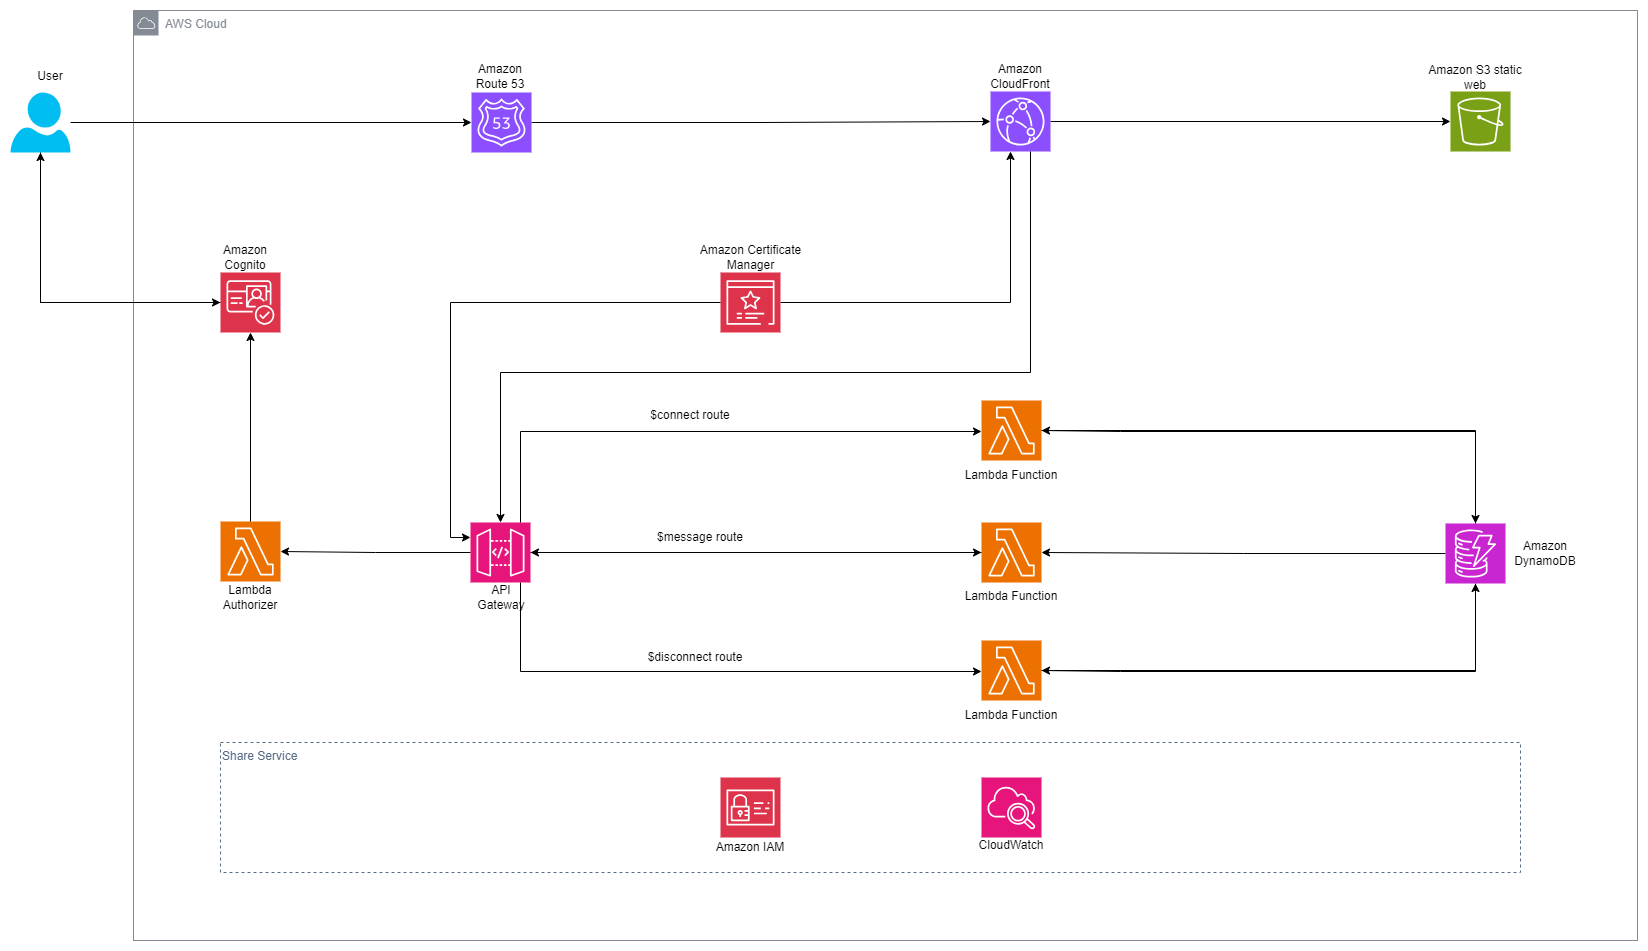
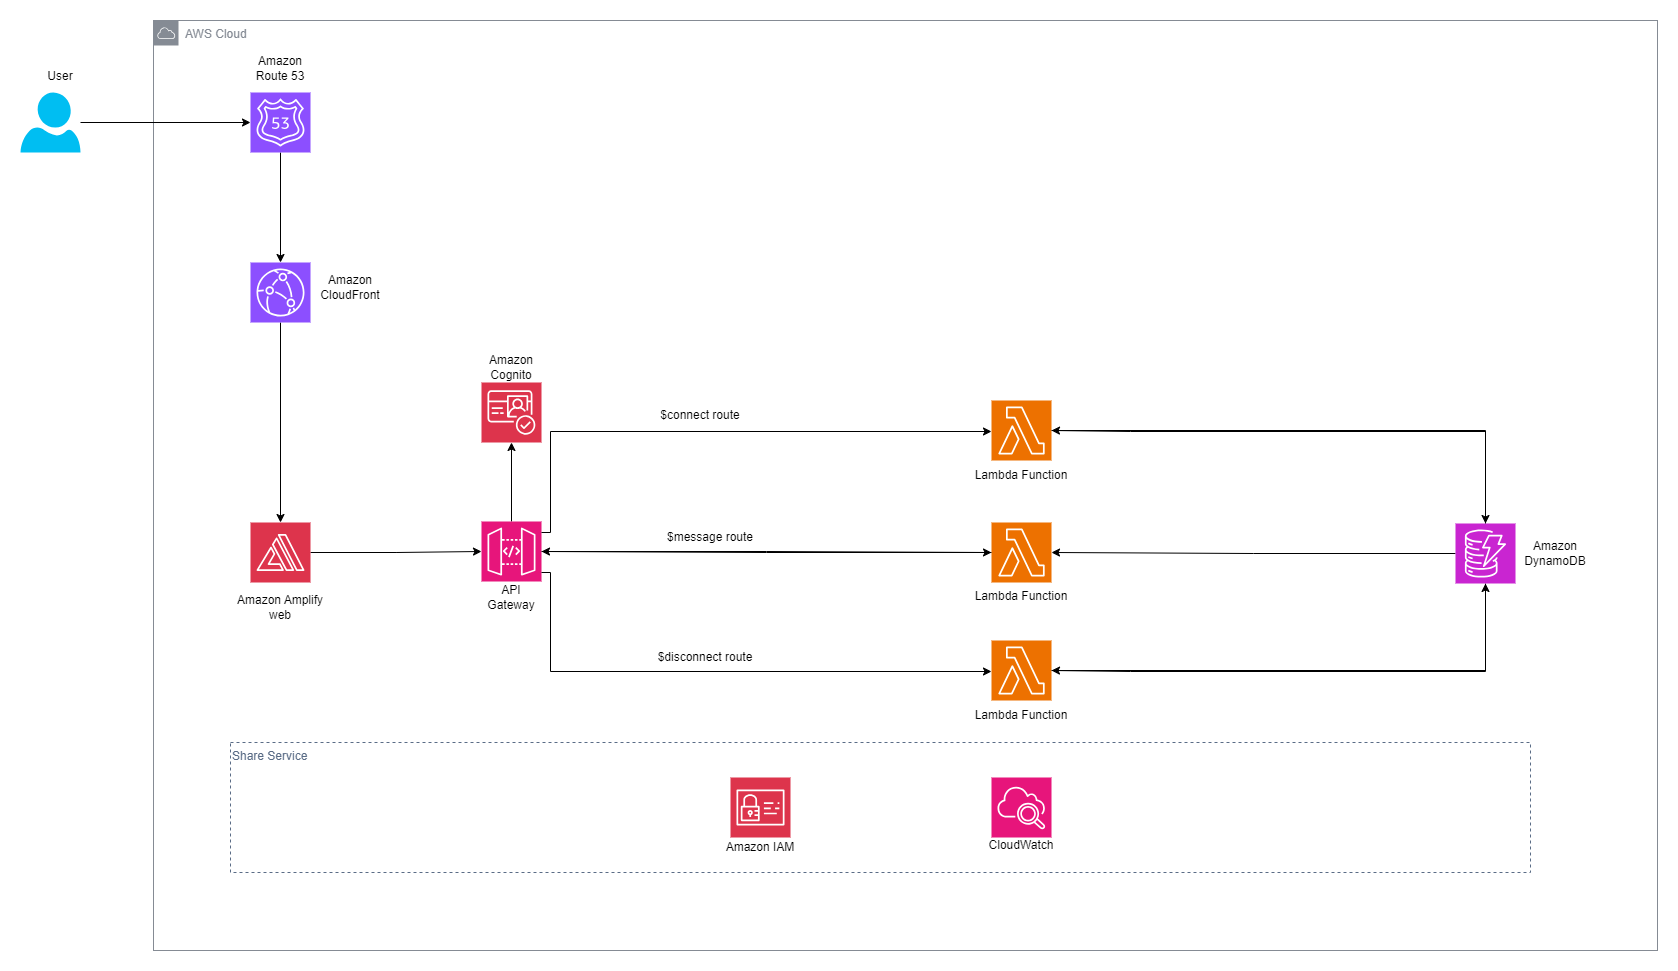
edit proposal architecture

diff --git a/content/2-Proposal/_index.vi.md b/content/2-Proposal/_index.vi.md
@@ -20,12 +20,12 @@ Nhóm đang phát triển một ứng dụng chat phục vụ mục đích học
 Giải pháp giúp nhóm thực hành xây dựng ứng dụng chat hoàn chỉnh từ frontend đến backend, kết hợp với các dịch vụ cloud thường dùng trong môi trường doanh nghiệp. Nhờ tận dụng Free Tier và các tài nguyên test, chi phí triển khai thấp nhưng vẫn đảm bảo đủ tính thực tiễn để nhóm hiểu rõ về quản lý hạ tầng, giám sát, mở rộng và bảo mật. Việc triển khai trên AWS giúp giảm thời gian cấu hình thủ công, đồng thời tạo nền tảng vững chắc cho các nghiên cứu nâng cao như chatbot, xử lý dữ liệu hoạt động người dùng hoặc tích hợp hệ thống AI. Thời gian hoàn vốn gần như tức thời do không yêu cầu chi phí phần cứng và giảm đáng kể nỗ lực vận hành.
 
  ### 3. Kiến trúc giải pháp  
-Ứng dụng Web Chat được triển khai dựa trên kiến trúc AWS Serverless, đảm bảo khả năng mở rộng và hiệu suất cao. Backend Realtime được xây dựng xung quanh Amazon API Gateway (WebSocket API) và các AWS Lambda Functions để xử lý logic chat theo sự kiện. Amazon DynamoDB được sử dụng để lưu trữ tin nhắn và thông tin kết nối, cung cấp độ trễ thấp cần thiết cho ứng dụng realtime. Frontend viết bằng VueJS, được lưu trữ trên Amazon S3 và phân phối qua CloudFront để tối ưu tốc độ và bảo mật kết nối WebSocket (WSS). Route 53 quản lý tên miền và định tuyến truy cập, sử dụng ACM (Certificate Manager) để cấp chứng chỉ. Amazon Cognito quản lý xác thực và danh tính người dùng. Toàn bộ hệ thống được giám sát bằng Amazon CloudWatch và được bảo vệ bởi các chính sách IAM. Kiến trúc này tạo điều kiện thuận lợi cho nhóm nghiên cứu các quy trình vận hành, triển khai liên tục và mở rộng ứng dụng chat realtime trên môi trường đám mây. 
+Ứng dụng Web Chat được triển khai dựa trên kiến trúc AWS Serverless, đảm bảo khả năng mở rộng và hiệu suất cao. Backend Realtime được xây dựng xung quanh Amazon API Gateway (WebSocket API) và các AWS Lambda Functions để xử lý logic chat theo sự kiện. Amazon DynamoDB được sử dụng để lưu trữ tin nhắn và thông tin kết nối, cung cấp độ trễ thấp cần thiết cho ứng dụng realtime. Frontend viết bằng VueJS, được lưu trữ trên Amazon Amplify và phân phối qua CloudFront để tối ưu tốc độ và bảo mật kết nối WebSocket (WSS). Route 53 quản lý tên miền và định tuyến truy cập, sử dụng ACM (Certificate Manager) để cấp chứng chỉ. Amazon Cognito quản lý xác thực và danh tính người dùng. Toàn bộ hệ thống được giám sát bằng Amazon CloudWatch và được bảo vệ bởi các chính sách IAM. Kiến trúc này tạo điều kiện thuận lợi cho nhóm nghiên cứu các quy trình vận hành, triển khai liên tục và mở rộng ứng dụng chat realtime trên môi trường đám mây. 
 
 ![WebChat Realtime Serverless Architecture](/images/2-Proposal/webchat_architecture.png)
 
 *Dịch vụ AWS sử dụng*
-- *Amazon S3*: Lưu trữ giao diện web tĩnh được xây dựng bằng Vue.js.  
+- *Amazon Amplify*: Lưu trữ giao diện web tĩnh được xây dựng bằng Vue.js.  
 - *AWS Lambda*: 1 Lambda Authorizer để kiểm tra token Cognito và 3 Lambda Functions để xử lý nghiệp vụ cho các route WebSocket.
 - *Amazon API Gateway*: Tiếp nhận và duy trì kết nối WebSocket, định tuyến các sự kiện .   
 - *Amazon Route 53*: Quản lý DNS và định tuyến tên miền tùy chỉnh.  
@@ -49,23 +49,23 @@ Giải pháp giúp nhóm thực hành xây dựng ứng dụng chat hoàn chỉn
 Dự án Web Chat gồm 2 phần chính — xây dựng backend , frontend cho web và triển khai lên Cloud AWS - trải qua 5 giai đoạn:  
 1. **Xây dựng Prototype**: Tìm hiểu VueJS, NestJS và lên kế hoạch xây dựng Web chat chạy trên mạng LAN  (1 tháng trước kỳ thực tập).  
 2. **Nghiên cứu và vẽ kiến trúc**: Tìm hiểu các dịch vụ AWS và vẽ kiến trúc phù hợp với dự án WebChat (Tháng 1).  
-3. **Tính toán chi phí và kiểm tra tính khả thi**: Sử dụng AWS Pricing Calculator để ước tính chi phí Lambda, API Gateway, DynamoDB, S3, CloudFront, CloudWatch và điều chỉnh thiết kế cho phù hợp (Tháng 2).  
+3. **Tính toán chi phí và kiểm tra tính khả thi**: Sử dụng AWS Pricing Calculator để ước tính chi phí Lambda, API Gateway, DynamoDB, Amplify, CloudFront, CloudWatch và điều chỉnh thiết kế cho phù hợp (Tháng 2).  
 4. **Điều chỉnh kiến trúc để tối ưu chi phí/giải pháp**: Tinh chỉnh cấu hình API Gateway WebSocket, tối ưu hóa các hàm Lambda (memory/concurrency) và Schema DynamoDB. Cache frontend bằng CloudFront để đảm bảo hiệu suất và giảm tải backend. (Tháng 3).
-5. **Phát triển, kiểm thử, triển khai**: Lập trình các Lambda Functions, frontend VueJS; triển khai toàn bộ hạ tầng (API Gateway, Lambda, DynamoDB, S3 + CloudFront, Route53, Cognito) ; kiểm thử hệ thống (functional, load test) và đưa vào vận hành. (Tháng 3–4).
+5. **Phát triển, kiểm thử, triển khai**: Lập trình các Lambda Functions, frontend VueJS; triển khai toàn bộ hạ tầng (API Gateway, Lambda, DynamoDB, Amplify + CloudFront, Route53, Cognito) ; kiểm thử hệ thống (functional, load test) và đưa vào vận hành. (Tháng 3–4).
 
 ---
 
 **_Yêu cầu kỹ thuật_**  
 - **Backend**: API Gateway với Lambda Function kết nối realtime , lưu trữ dữ liệu chat và người dùng trên DynamoDB, log và giám sát trên CloudWatch, tích hợp domain qua Route53.  
-- **Frontend**: VueJS, phân phối qua S3 + CloudFront để tối ưu tốc độ, load assets và giao diện chat realtime.  
+- **Frontend**: VueJS, phân phối qua Amplify + CloudFront để tối ưu tốc độ, load assets và giao diện chat realtime.  
 - **Realtime & hiệu năng**: API Gateway Websocket để gửi nhận tin nhắn thời gian thực; cache frontend bằng CloudFront để giảm request trực tiếp lên backend.  
 - **Bảo mật & quản lý người dùng**: Sử dụng Cognito để xác thực, phân quyền truy cập dữ liệu chat nội bộ.  
 
 ### 5. Lộ trình & Mốc triển khai  
-- *Trước thực tập (Tháng 0)*: 1 tháng khảo sát yêu cầu dự án, chọn công nghệ (VueJS, NestJS, EC2, S3, DynamoDB, CloudFront, Route53, ECS, CloudWatch) và xây dựng kế hoạch tổng thể.
+- *Trước thực tập (Tháng 0)*: 1 tháng khảo sát yêu cầu dự án, chọn công nghệ (VueJS, NestJS, EC2, Amplify, DynamoDB, CloudFront, Route53, ECS, CloudWatch) và xây dựng kế hoạch tổng thể.
 - *Thực tập (Tháng 1–3)*:  
-    - Tháng 1: Học và làm quen với AWS (EC2, ECS, DynamoDB, S3, CloudFront, Route53, CloudWatch). Thiết lập môi trường phát triển, tạo prototype backend NestJS và frontend VueJS. 
-    - Tháng 2: Thiết kế và điều chỉnh kiến trúc hệ thống, xây dựng tính năng chính (chat realtime, lưu tin nhắn, giao diện cơ bản). Thiết lập hạ tầng AWS: Lambda + API Gateway cho backend, S3 + CloudFront cho frontend, DynamoDB cho dữ liệu, Route53 cho domain.  
+    - Tháng 1: Học và làm quen với AWS (EC2, ECS, DynamoDB, Amplify, CloudFront, Route53, CloudWatch). Thiết lập môi trường phát triển, tạo prototype backend NestJS và frontend VueJS. 
+    - Tháng 2: Thiết kế và điều chỉnh kiến trúc hệ thống, xây dựng tính năng chính (chat realtime, lưu tin nhắn, giao diện cơ bản). Thiết lập hạ tầng AWS: Lambda + API Gateway cho backend, Amplify + CloudFront cho frontend, DynamoDB cho dữ liệu, Route53 cho domain.  
     - Tháng 3: Triển khai chính thức, kiểm thử (functional, load 20–30 user), tối ưu hiệu năng, cấu hình giám sát CloudWatch và đưa vào sử dụng. 
 - *Sau triển khai*:  Tiếp tục nghiên cứu và mở rộng tính năng trong vòng 1 năm (chatbot, phân tích dữ liệu, cải thiện UI/UX, tối ưu bảo mật và chi phí).  
 
@@ -76,7 +76,7 @@ Có thể xem chi phí trên [AWS Pricing Calculator](https://calculator.aws/#/e
 - AWS Lambda: 0,01 USD/tháng ( ~50.000 Invocations)
 - Amazon API Gateway: 3,80 USD/tháng  ( giả định 30 user sử dụng 150000 phút và gửi 50000 tin nhắn)
 - DynamoDB: 0,05 USD/tháng (~ 50.000 Writes)
-- S3 Standard: 0,20 USD/tháng 
+- Amplify : 0,20 USD/tháng 
 - CloudFront: 0,68 USD/tháng (Data Transfer Out 8GB)
 - CloudWatch: 0,05 USD/tháng (50MB log)
 - Route53: $0.50 USD/tháng 
@@ -108,7 +108,7 @@ Có thể xem chi phí trên [AWS Pricing Calculator](https://calculator.aws/#/e
 **Cải tiến kỹ thuật**  
 - Ứng dụng chat thời gian thực, thay thế việc trao đổi thủ công qua email hoặc ghi chú.  
 - Lưu trữ tin nhắn và file đính kèm tập trung, dễ truy xuất và quản lý.  
-- Kiến trúc mô-đun với backend , frontend VueJS và hạ tầng AWS (Lambda ,API Gateway,S3, DynamoDB, CloudFront, Route53, CloudWatch) có thể mở rộng để phục vụ từ 50 đến 100 người dùng trong tương lai.  
+- Kiến trúc mô-đun với backend , frontend VueJS và hạ tầng AWS (Lambda ,API Gateway,Amplify, DynamoDB, CloudFront, Route53, CloudWatch) có thể mở rộng để phục vụ từ 50 đến 100 người dùng trong tương lai.  
 
 **Giá trị dài hạn**  
 - Nền tảng có thể lưu trữ dữ liệu chat và log sử dụng trong 1 năm cho nghiên cứu, đánh giá trải nghiệm người dùng hoặc thử nghiệm các tính năng AI/ML như chatbot, phân tích hành vi người dùng.  

diff --git a/content/2-Proposal/_index.md b/content/2-Proposal/_index.md
@@ -20,12 +20,12 @@ The Web Chat application is deployed based on AWS Serverless services, aiming to
 The solution enables the team to practice building a complete chat application from frontend to backend, combined with commonly used cloud services in enterprise environments. By leveraging the AWS Free Tier and test resources, deployment costs are low while still ensuring sufficient practicality for the team to gain a deep understanding of infrastructure management, monitoring, scaling, and security. Deploying on AWS reduces manual configuration time and creates a solid foundation for advanced research such as chatbots, user activity data processing, or AI system integration. The return on investment is nearly immediate due to no hardware costs and significantly reduced operational effort.
 
 ### 3. Solution Architecture  
-The Web Chat application is deployed based on the AWS Serverless architecture, ensuring high scalability and performance.The Realtime Backend is built around Amazon API Gateway (WebSocket API) and AWS Lambda Functions to handle event-driven chat logic. Amazon DynamoDB is used to store messages and connection information, providing the low latency required for a realtime application.The Frontend, written in VueJS, is hosted on Amazon S3 and distributed via CloudFront to optimize speed and secure the WebSocket (WSS) connection. Route 53 manages the custom domain and routes traffic, utilizing ACM (Certificate Manager) for certification. Amazon Cognito handles user authentication and identity management.The entire system is monitored by Amazon CloudWatch and secured by IAM policies. This architecture facilitates the team's research into the processes of operations (DevOps), continuous deployment, and scaling a realtime chat application on the cloud environment.
+The Web Chat application is deployed based on the AWS Serverless architecture, ensuring high scalability and performance.The Realtime Backend is built around Amazon API Gateway (WebSocket API) and AWS Lambda Functions to handle event-driven chat logic. Amazon DynamoDB is used to store messages and connection information, providing the low latency required for a realtime application.The Frontend, written in VueJS, is hosted on Amazon Amplify and distributed via CloudFront to optimize speed and secure the WebSocket (WSS) connection. Route 53 manages the custom domain and routes traffic, utilizing ACM (Certificate Manager) for certification. Amazon Cognito handles user authentication and identity management.The entire system is monitored by Amazon CloudWatch and secured by IAM policies. This architecture facilitates the team's research into the processes of operations (DevOps), continuous deployment, and scaling a realtime chat application on the cloud environment.
 
 ![WebChat Realtime Serverless Architecture](/images/2-Proposal/webchat_architecture.png)
 
 *AWS Services Utilized*  
-- *Amazon S3*: Stores the static web interface built with Vue.js. 
+- *Amazon Amplify*: Stores the static web interface built with Vue.js. 
 - *AWS Lambda*: 1 Lambda Authorizer to check the Cognito token and 3 Lambda Functions to handle business logic for the WebSocket routes.
 - *Amazon API Gateway*: Receives and maintains WebSocket connections, routing events.
 - *Amazon Route 53*: Manages DNS and routes the custom domain.
@@ -50,23 +50,23 @@ The Web Chat Project consists of 2 main parts—building the backend, frontend f
 
 1. **Building the Prototype**: Research VueJS, NestJS, and plan the construction of the Web Chat running on a LAN network (1 month before the internship period).
 2. **Research and Architecture Design**: Research AWS services and draw the architecture suitable for the WebChat project (Month 1).
-3. **Cost Estimation and Feasibility Check**:Use the AWS Pricing Calculator to estimate the costs of Lambda, API Gateway, DynamoDB, S3, CloudFront, CloudWatch, and adjust the design accordingly (Month 2).
+3. **Cost Estimation and Feasibility Check**:Use the AWS Pricing Calculator to estimate the costs of Lambda, API Gateway, DynamoDB, Amplify, CloudFront, CloudWatch, and adjust the design accordingly (Month 2).
 4. **Architecture Optimization for Cost/Solution**: Fine-tune API Gateway WebSocket configuration, optimize Lambda functions (memory/concurrency) and DynamoDB Schema. Cache the frontend using CloudFront to ensure performance and reduce backend load (Month 3).
-5. **Development, Testing, Deployment**: Program the Lambda Functions, VueJS frontend; deploy the entire infrastructure (API Gateway, Lambda, DynamoDB, S3 + CloudFront, Route53, Cognito); test the system (functional, load test) and launch operations (Month 3–4)."
+5. **Development, Testing, Deployment**: Program the Lambda Functions, VueJS frontend; deploy the entire infrastructure (API Gateway, Lambda, DynamoDB, Amplify + CloudFront, Route53, Cognito); test the system (functional, load test) and launch operations (Month 3–4)."
 
 ---
 
 **_Technical Requirements_**  
 - **Backend**:API Gateway with Lambda Functions provides real-time connectivity, stores chat and user data on DynamoDB, logs and monitoring are handled on CloudWatch, and the custom domain is integrated via Route53. 
-- **Frontend**: VueJS, distributed via S3 + CloudFront for speed optimization, load assets and real-time chat interface.  
+- **Frontend**: VueJS, distributed via Amplify + CloudFront for speed optimization, load assets and real-time chat interface.  
 - **Real-time & Performance**: WebSocket or API Gateway (if using REST) for real-time message sending/receiving; cache frontend with CloudFront to reduce direct backend requests.  
 - **Security & User Management**: Use JWT or Cognito if needed for authentication, authorize access to internal chat data.  
 
 ### 5. Roadmap & Milestones  
-- *Pre-Internship (Month 0)*: 1 month surveying project requirements, selecting technologies (VueJS, NestJS, EC2, S3, DynamoDB, CloudFront, Route53, ECS, CloudWatch) and building the overall plan.
+- *Pre-Internship (Month 0)*: 1 month surveying project requirements, selecting technologies (VueJS, NestJS, EC2, Amplify, DynamoDB, CloudFront, Route53, ECS, CloudWatch) and building the overall plan.
 - *Internship (Months 1–3)*:  
-    - Month 1: Learn and familiarize with AWS (EC2, ECS, DynamoDB, S3, CloudFront, Route53, CloudWatch). Set up development environment, create NestJS backend and VueJS frontend prototypes. 
-    - Month 2: Design and adjust system architecture, build core features (real-time chat, message storage, basic UI). Set up AWS infrastructure: Lambda + API Gateway for backend, S3 + CloudFront for frontend, DynamoDB for data, Route53 for domain.  
+    - Month 1: Learn and familiarize with AWS (EC2, ECS, DynamoDB, Amplify, CloudFront, Route53, CloudWatch). Set up development environment, create NestJS backend and VueJS frontend prototypes. 
+    - Month 2: Design and adjust system architecture, build core features (real-time chat, message storage, basic UI). Set up AWS infrastructure: Lambda + API Gateway for backend, Amplify + CloudFront for frontend, DynamoDB for data, Route53 for domain.  
     - Month 3: Official deployment, testing (functional, load 20–30 users), performance optimization, configure CloudWatch monitoring and put into operation. 
 - *Post-Deployment*: Continue research and feature expansion for 1 year (chatbot, data analytics, UI/UX improvements, security and cost optimization).  
 
@@ -77,7 +77,7 @@ View costs on the [AWS Pricing Calculator](https://calculator.aws/#/estimate?id=
 - AWS Lambda: 0,01 USD/month ( ~50.000 Invocations)
 - Amazon API Gateway: 3,80 USD/month  ( Assumes 30 users utilizing 150,000 minutes of connection time and sending 50,000 messages)
 - DynamoDB: 0,05 USD/month (~ 50.000 Writes)
-- S3 Standard: 0,20 USD/month 
+- Amplify: 0,20 USD/month 
 - CloudFront: 0,68 USD/month (Data Transfer Out 8GB)
 - CloudWatch: 0,05 USD/month (50MB log)
 - Route53: $0.50 USD/month 
@@ -108,7 +108,7 @@ View costs on the [AWS Pricing Calculator](https://calculator.aws/#/estimate?id=
 **Technical Improvements**  
 - Real-time chat application, replacing manual exchanges via email or notes.  
 - Centralized storage of messages and attachments, easy to retrieve and manage.  
-- Modular architecture with NestJS backend, VueJS frontend, and AWS infrastructure (Lambda ,API Gateway, S3, DynamoDB, CloudFront, Route53, CloudWatch) scalable to serve 50 to 100 users in the future.  
+- Modular architecture with NestJS backend, VueJS frontend, and AWS infrastructure (Lambda ,API Gateway, Amplify, DynamoDB, CloudFront, Route53, CloudWatch) scalable to serve 50 to 100 users in the future.  
 
 **Long-Term Value**  
 - The platform can store chat data and usage logs for 1 year for research, user experience evaluation, or testing AI/ML features such as chatbots and user behavior analysis.  
